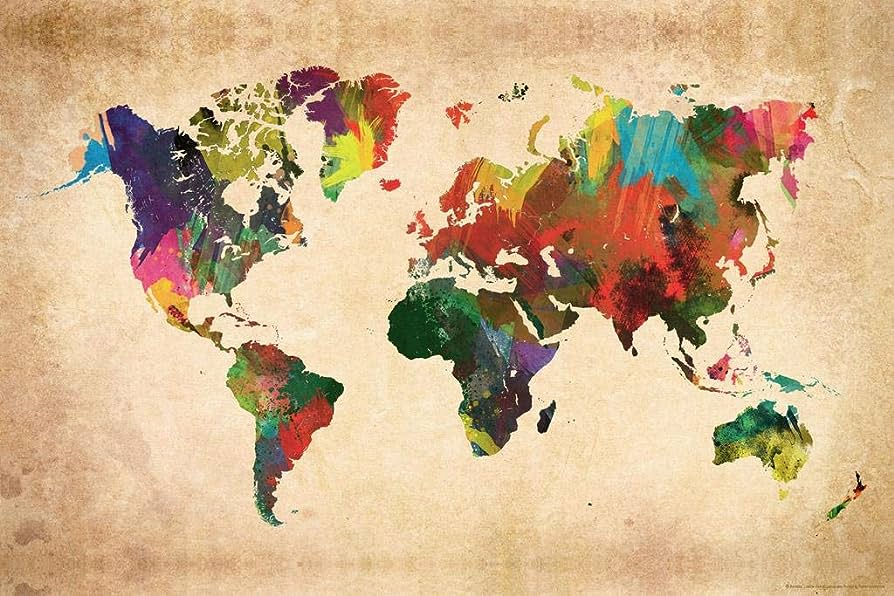
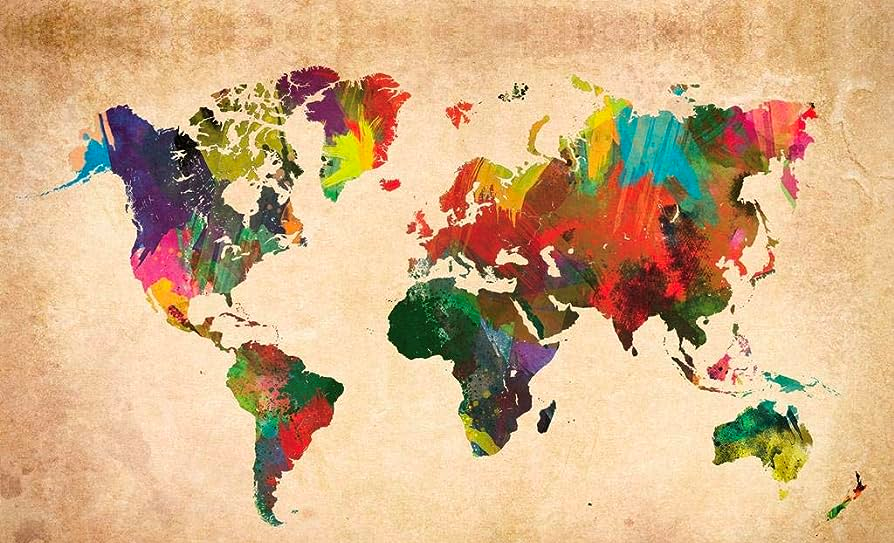
remove black block

diff --git a/src/app/layout/main/main.component.html b/src/app/layout/main/main.component.html
@@ -26,7 +26,7 @@
   <!--  -->
 
   <!--  -->
-  <div class="grid grid-cols-12 main-C-I-R">
+  <div class="grid grid-cols-12 main-C-I-R h-screen">
     <div class="col-span-7">
       <div class="hidden text-9xl md:block lg:block xl:block">
         <div class="C-I-R paralax-title">
@@ -38,15 +38,15 @@
       <div class="md:hidden text-6xl">Create Inspire Repeat.</div>
     </div>
     <div class="col-span-5">
-      <div class="hidden blue sm:block -z-0"></div>
+      <div class="text-right blue-right">
+        <div class="hidden blue sm:block"></div>
+      </div>
     </div>
     <div class="map hidden md:block lg:block">
       <div class="relative">
-        <div class="branch">
+        <!-- <div class="branch">
           <div></div>
           <div class="branch-animation text-right">
-            <!-- <span class="text-pink-300 font-bold text-xl">
-              Branch -->
             <div class="container">
               <p>
                 <span class="text-pink-300 font-bold text-xl">Branch</span>
@@ -54,7 +54,7 @@
                 <span #cursor class="cursor font-bold text-xl">&nbsp;</span>
               </p>
             </div>
-            <!-- </span> -->
+
             <span id="spin" class="font-bold text-xl"></span>
             <div class="text-white">
               Lorem ipsum dolor sit amet consectetur adipisicing elit. Id
@@ -63,10 +63,10 @@
             </div>
             <span id="typed" style="white-space: pre" class="typed"> </span>
           </div>
-        </div>
+        </div> -->
         <img
           class="animate__animated animate__zoomIn animate__fadeIn"
-          src="../../../../assets/image/map.png"
+          src="../../../assets/image/map.png"
           alt="Map Image"
         />
       </div>
@@ -81,7 +81,7 @@
       />
     </div>
     <div class="small-device-branch">
-      <div class="">
+      <!-- <div class="">
         <span style="color: #ff8189" class="font-bold text-xl">Branch</span>
         <span class="container">
           <p>
@@ -94,7 +94,7 @@
           doloribus fugiat dolorem magnam similique quidem in dicta, beatae ad,
           culpa error maxime aliquam molestiae.
         </div>
-      </div>
+      </div> -->
     </div>
   </div>
 

diff --git a/src/app/layout/main/main.component.scss b/src/app/layout/main/main.component.scss
@@ -177,8 +177,16 @@
 /* fullscreen-menu.component.scss */
 .blue {
   background-color: #54c8e8;
-  padding: 51%;
+  // width: 25%;
+  padding: 39%;
+  width: 10%;
   z-index: 1;
+  float: right;
+  // height: 102%;
+  // align-items: end;
+}
+.blue-right {
+  align-items: end;
 }
 .C-I-R {
   margin-left: 50%;
@@ -192,7 +200,7 @@
 .map {
   position: absolute;
   z-index: -1;
-  top: 41%;
+  top: 35%;
   width: 100%;
 }
 .branch {
@@ -213,7 +221,7 @@
   // width: 30%;
 }
 .map img {
-  width: 60%;
+  width: 69%;
 }
 .small-device-map {
   position: relative;
@@ -231,15 +239,6 @@
 @media screen and (min-width: 1024px) {
   .main-C-I-R {
     margin-bottom: 19%;
-  }
-}
-
-#spin {
-  color: white;
-  // background-color: #070507;
-  &:after {
-    content: "";
-    animation: spin 4s linears infinite;
   }
 }
 

diff --git a/src/app/pages/auth/sign-up/sign-up.component.ts b/src/app/pages/auth/sign-up/sign-up.component.ts
@@ -13,20 +13,20 @@ export class SignUpComponent implements AfterViewInit {
   cardWidth = 500; // Adjust this based on your card width
 
   nextCard() {
-    debugger;
+    // debugger;
     this.currentIndex = (this.currentIndex + 1) % this.cards.length;
     this.updateSlideOffset();
   }
 
   prevCard() {
-    debugger;
+    // debugger;
     this.currentIndex =
       (this.currentIndex - 1 + this.cards.length) % this.cards.length;
     this.updateSlideOffset();
   }
 
   updateSlideOffset() {
-    debugger;
+    // debugger;
     this.slideOffset = -this.currentIndex * this.cardWidth;
   }
 

diff --git a/src/app/layout/main/main.component.ts b/src/app/layout/main/main.component.ts
@@ -21,20 +21,20 @@ export class MainComponent implements OnInit {
   cardWidth = 500; // Adjust this based on your card width
 
   nextCard() {
-    debugger;
+    // debugger;
     this.currentIndex = (this.currentIndex + 1) % this.cards.length;
     this.updateSlideOffset();
   }
 
   prevCard() {
-    debugger;
+    // debugger;
     this.currentIndex =
       (this.currentIndex - 1 + this.cards.length) % this.cards.length;
     this.updateSlideOffset();
   }
 
   updateSlideOffset() {
-    debugger;
+    // debugger;
     this.slideOffset = -this.currentIndex * this.cardWidth;
   }
 
